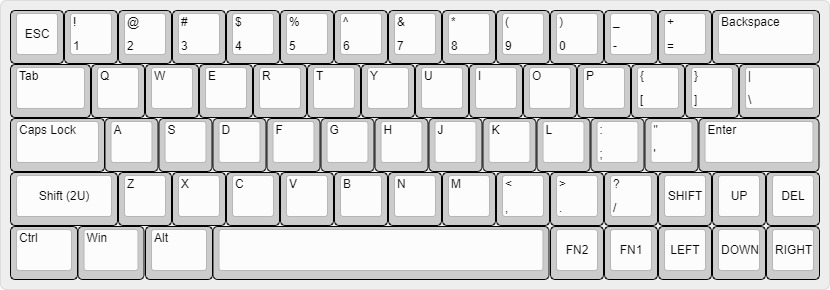
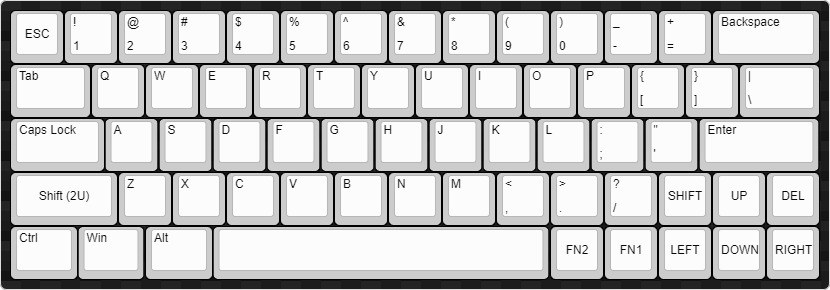
minor updates

diff --git a/readme.md b/readme.md
@@ -2,14 +2,14 @@
 Uses QMK to flash the firmware on the KB
 
 Layer 0(default) Keymap for Ted's DZ60:
-![JergOP Layer 0 Keymap for XD60](https://i.imgur.com/z1h9NPs.png)
+![JergOP Layer 0 Keymap for XD60](assets/main_layer.jpg)
 
 Layer 1(FN 1) Keymap for Ted's DZ60:
-![](assets/main_layer.jpg)
+![](assets/fn1_layer.jpg)
 
 
 Layer 2(FN 2) Keymap for Ted's DZ60:
-![](assets/fn1_layer.jpg)
+![](assets/fn2_layer.jpg)
 
 ## Build
 To build this keymap, insert the keymap into the correct directory, and run <make dz60:JergOP> 
